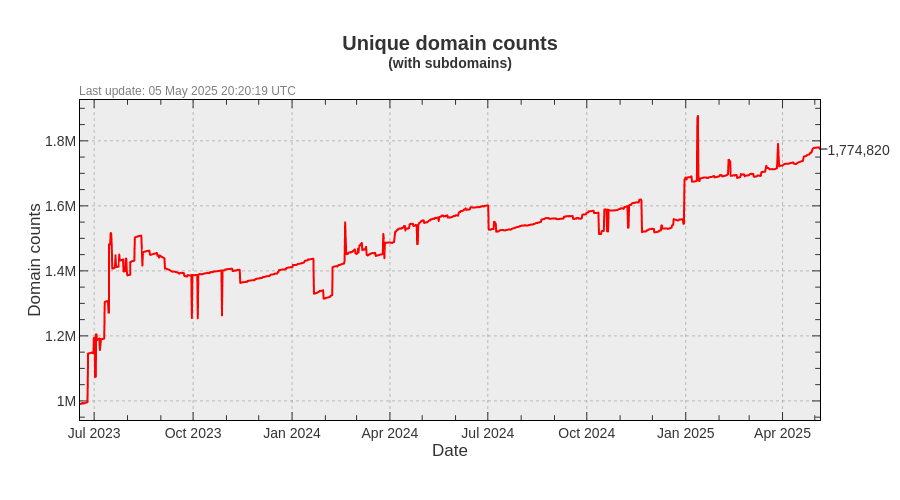
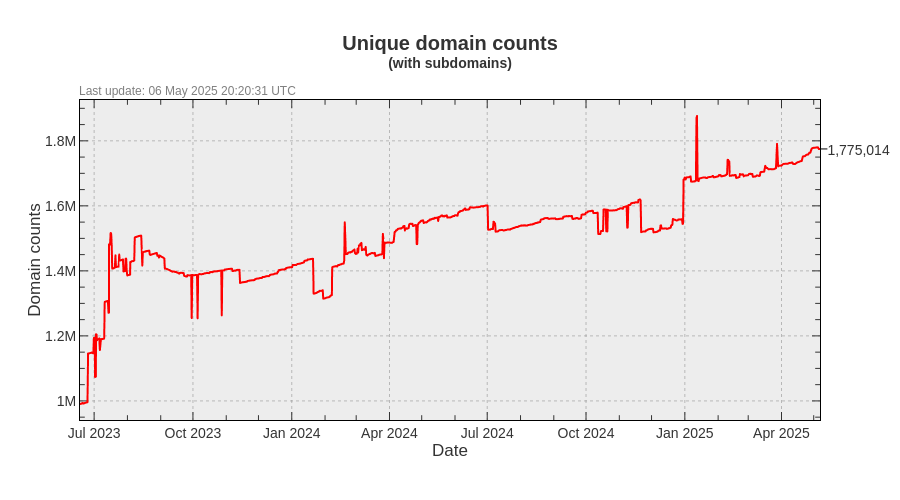
Update pages

diff --git a/README.md b/README.md
@@ -3,23 +3,23 @@ A blocklist file for blocking ads, trackers and malware domains.
 
[1 lines of base64/hex data omitted]
 
-- Unique domains: 1,774,820
-- Without subdomains: 1,158,301
-- Last update: 05 May 2025 20:20:19 UTC
-- Version: 2025.05.05.01
+- Unique domains: 1,775,014
+- Without subdomains: 1,158,612
+- Last update: 06 May 2025 20:20:31 UTC
+- Version: 2025.05.06.01
 
 
 ### Downloads:
 
 | Format             | Domain count      | Download Link |
 |:------------------ | -----------------:|:-------------:|
-| *Adblock Plus*     | 1,158,301 | [Download](https://raw.githubusercontent.com/cenk/bad-hosts/main/bad-hosts-abp) |
-| *Wildcard domains* | 1,158,301 | [Download](https://raw.githubusercontent.com/cenk/bad-hosts/main/bad-hosts-wildcard) |
-| *dnsmasq*          | 1,158,301 | [Download](https://raw.githubusercontent.com/cenk/bad-hosts/main/bad-hosts-dnsmasq) |
-| *Unbound*          | 1,158,301 | [Download](https://raw.githubusercontent.com/cenk/bad-hosts/main/bad-hosts-unbound) |
-| *hosts*            | 1,774,820 | [Download](https://raw.githubusercontent.com/cenk/bad-hosts/main/hosts) |
-| *hosts (ipv6)*     | 1,774,820 | [Download](https://raw.githubusercontent.com/cenk/bad-hosts/main/hosts-ipv6) |
-| *Plain domains*    | 1,774,820 | [Download](https://raw.githubusercontent.com/cenk/bad-hosts/main/bad-hosts-domains) |
+| *Adblock Plus*     | 1,158,612 | [Download](https://raw.githubusercontent.com/cenk/bad-hosts/main/bad-hosts-abp) |
+| *Wildcard domains* | 1,158,612 | [Download](https://raw.githubusercontent.com/cenk/bad-hosts/main/bad-hosts-wildcard) |
+| *dnsmasq*          | 1,158,612 | [Download](https://raw.githubusercontent.com/cenk/bad-hosts/main/bad-hosts-dnsmasq) |
+| *Unbound*          | 1,158,612 | [Download](https://raw.githubusercontent.com/cenk/bad-hosts/main/bad-hosts-unbound) |
+| *hosts*            | 1,775,014 | [Download](https://raw.githubusercontent.com/cenk/bad-hosts/main/hosts) |
+| *hosts (ipv6)*     | 1,775,014 | [Download](https://raw.githubusercontent.com/cenk/bad-hosts/main/hosts-ipv6) |
+| *Plain domains*    | 1,775,014 | [Download](https://raw.githubusercontent.com/cenk/bad-hosts/main/bad-hosts-domains) |
 
 ### Domain count history
 #### With subdomains
